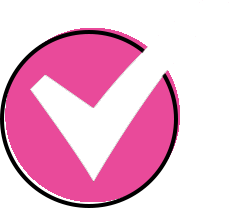
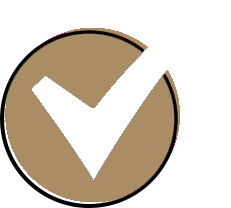
landing page updated

diff --git a/public/assests/css/style.css b/public/assests/css/style.css
@@ -23,7 +23,7 @@ body {
 /*HEADER AREA*/
 
 #header {
-	background: #e94a9a;
+	background: #ab8d65;
 	color: #fff;
 	padding: 10px 0;
 	text-align: center;
@@ -32,7 +32,7 @@ body {
 /*BANNER AREA*/
 
 #banner {
-	background: #fbddec;
+	background: #fff;
 	padding: 50px 0 0 0;
 	position: relative;
 }
@@ -92,7 +92,7 @@ p.cta-text {
 /*TESTIMONIAL AREA*/
 
 section#testimonial {
-	background: #d9d9d9;
+	background: #fff1d8;
 }
 
 section#testimonial .container {
@@ -134,7 +134,7 @@ h3.testi-head {
 /*MEDIA SECTION*/
 
 #media {
-	background: #d9d9d9;
+	background: #fff1d8;
 	padding: 40px 0;
 }
 
@@ -211,7 +211,7 @@ section#why-buy {
 /*RESULTS SECTION*/
 
 section#results {
-	background: #fbddec;
+	background: #fff1d8;
 	padding: 55px 0;
 }
 
@@ -225,14 +225,14 @@ section#results h2 {
 /*5 STAR SECTION*/
 
 section#star-sec {
-	background: #d9d9d9;
+	background: #fff;
 	padding: 50px 0;
 }
 
 /*SAVE TIME SECTION*/
 
 section#save-time {
-	background: #fbddec;
+	background: #fff1d8;
 	padding: 55px 0 0 0;
 }
 
@@ -256,7 +256,7 @@ section#feature {
 /*MONEY BACK SECTION*/
 
 .money-back {
-	background: #f3ffeb;
+	background: #fff1d8;
 	border-radius: 30px;
 	box-shadow: 0px 0px 18px #33333369;
 	padding: 30px 50px;
@@ -351,7 +351,7 @@ section#options h3 {
 }
 
 span.pink-highlight {
-	background: #e94a9a;
+	background: #ab8d65;
 	color: #fff;
 }
 
@@ -373,7 +373,7 @@ section#questions h2 {
 }
 
 section#questions .accordion-button:not(.collapsed) {
-	color: #ea4f9d;
+	color: #ab8d65;
 	background-color: #ffffff;
 	box-shadow: inset 0 -1px 0 rgba(0, 0, 0, 0.125);
 	font-size: 20px;
@@ -442,7 +442,7 @@ section#footer {
 
 @media (min-width: 300px) and (max-width: 580px) {
 	#banner {
-		background: #fbddec;
+		background: #ffffff;
 		padding: 20px 0 0 0;
 		position: relative;
 	}
@@ -535,7 +535,7 @@ section#footer {
 	}
 
 	section#results {
-		background: #fbddec;
+		background: #fff1d8;
 		padding: 25px 0;
 	}
 
@@ -551,12 +551,12 @@ section#footer {
 	}
 
 	section#star-sec {
-		background: #d9d9d9;
+		background: #ffffff;
 		padding: 30px 0;
 	}
 
 	section#save-time {
-		background: #fbddec;
+		background: #fff1d8;
 		padding: 15px 0 0 0;
 	}
 
@@ -573,7 +573,7 @@ section#footer {
 	}
 
 	.money-back {
-		background: #f3ffeb;
+		background: #fff1d8;
 		border-radius: 30px;
 		box-shadow: 0px 0px 18px #33333369;
 		padding: 20px 15px;
@@ -593,7 +593,7 @@ section#footer {
 	}
 
 	#eleminate {
-		background: #fbddec;
+		background: #fff1d8;
 		background-size: 100%;
 		padding: 35px 0;
 		background-position: center center;

diff --git a/pages/index.vue b/pages/index.vue
@@ -11,7 +11,10 @@
 								skin’s youthful glow.
 							</h2>
 							<ul>
-								<li><img src="" class="img-fluid check-icon" /> Diminishes your age spots</li>
+								<li>
+									<img src="/images/check-mark.png" class="img-fluid check-icon" /> Diminishes your
+									age spots
+								</li>
 								<li>
 									<img src="/images/check-mark.png" class="img-fluid check-icon" /> Minimizes the
 									appearance of wrinkles
@@ -26,7 +29,7 @@
 								</li>
 							</ul>
 							<div class="cta-btn">
-								<a href="#" class="btn">TRY SÉRUM DE LUXE NOW >></a>
+								<NuxtLink href="#" class="btn">TRY SÉRUM DE LUXE NOW >></NuxtLink>
 							</div>
 							<p class="cta-text">This is a one-time order. This is not a subscription.</p>
 						</div>
@@ -107,7 +110,7 @@
 							</div>
 
 							<div class="cta-btn">
-								<a href="#" class="btn">TRY SÉRUM DE LUXE NOW >></a>
+								<NuxtLink href="#" class="btn">TRY SÉRUM DE LUXE NOW >></NuxtLink>
 							</div>
 						</div>
 					</div>
@@ -205,7 +208,7 @@
 							bottle.
 						</p>
 						<div class="cta-btn">
-							<a href="#" class="btn">TRY SÉRUM DE LUXE NOW >></a>
+							<NuxtLink href="#" class="btn">TRY SÉRUM DE LUXE NOW >></NuxtLink>
 						</div>
 					</div>
 					<div class="col-md-3">
@@ -257,7 +260,7 @@
 							with dry or sensitive skin.
 						</p>
 						<div class="cta-btn">
-							<a href="#" class="btn">TRY SÉRUM DE LUXE NOW >></a>
+							<NuxtLink href="#" class="btn">TRY SÉRUM DE LUXE NOW >></NuxtLink>
 						</div>
 					</div>
 				</div>
